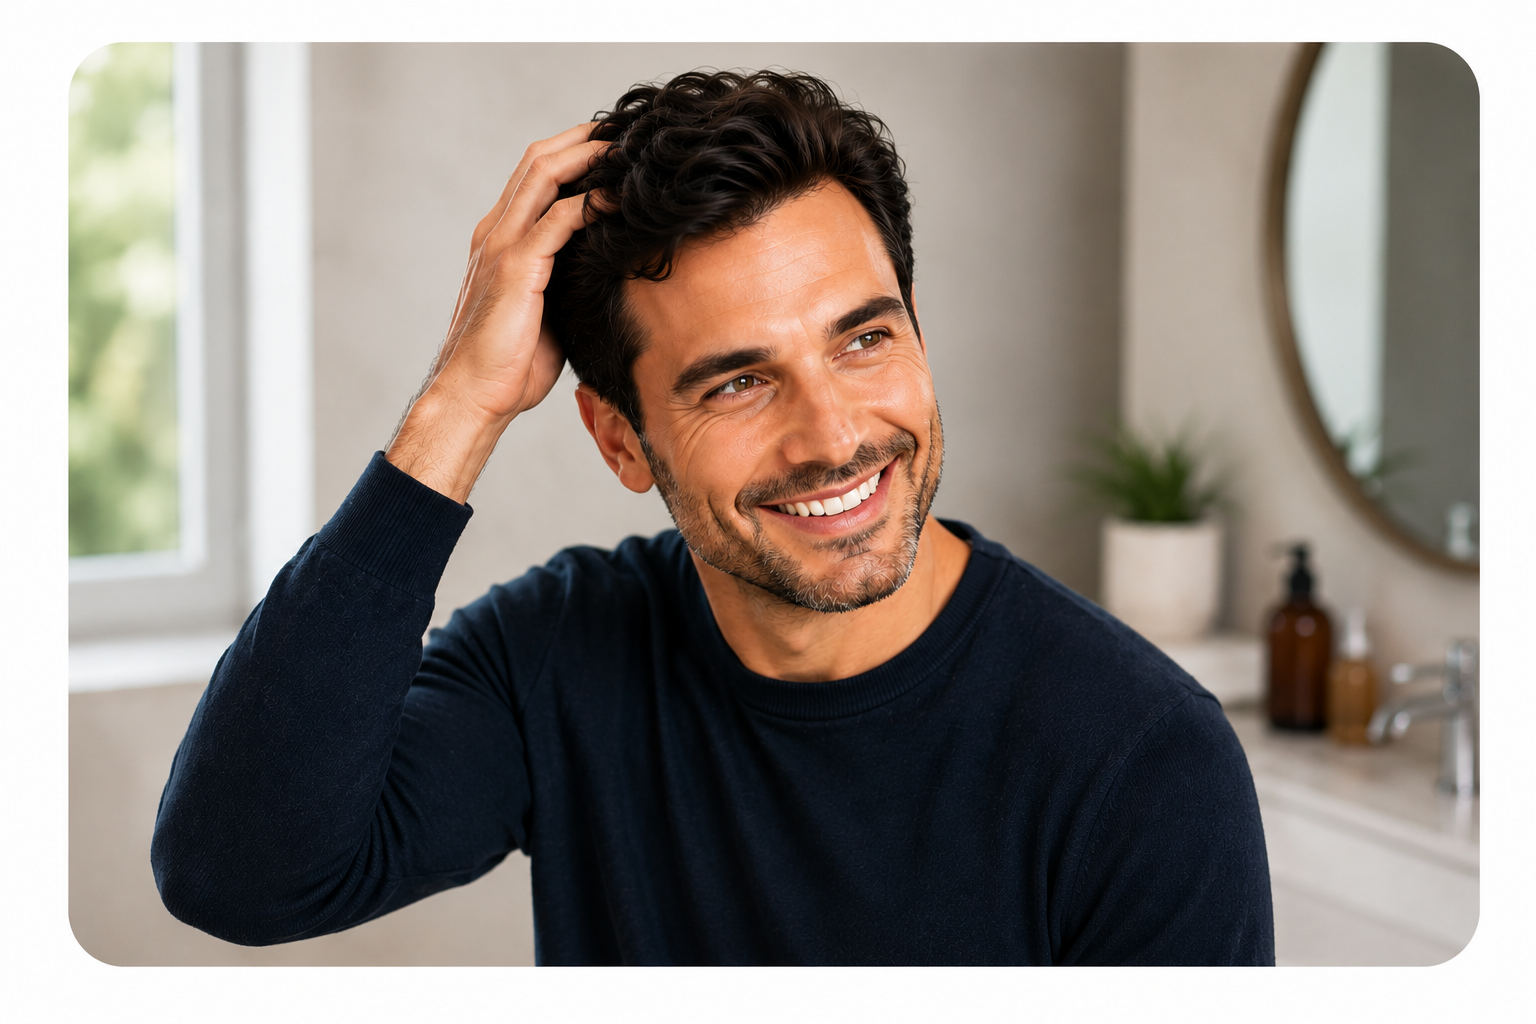
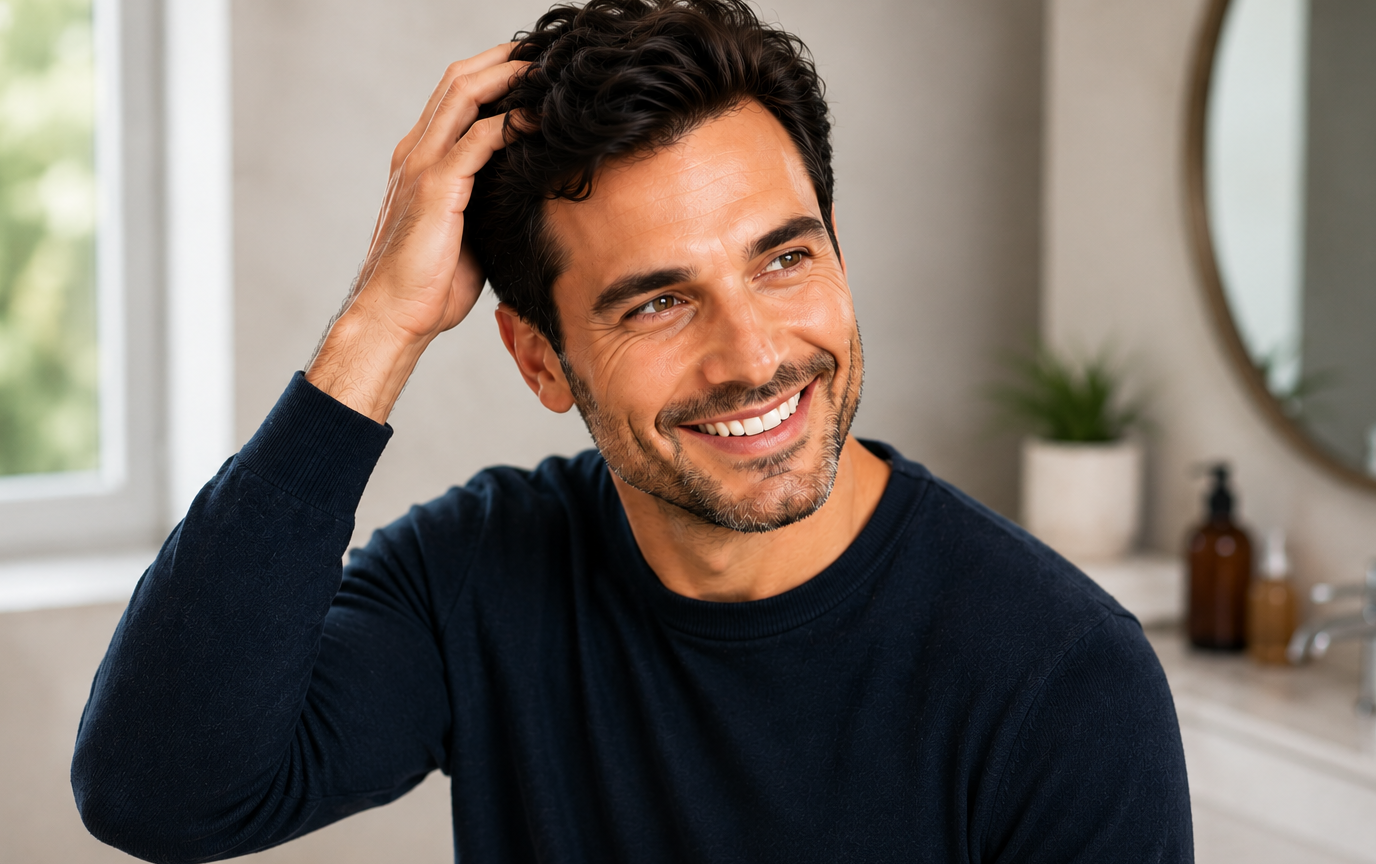
fix: clean up Hair Restoration products header and CTA image
- Remove the "Personalized Care, Real Results" pill eyebrow and the
  "Explore provider-guided treatment plans" lead from the products head
- Widen the products header column so the title fits on one line
- Bump product-card description to the shared card-body text size
- Crop the baked-in white matte border off cta-man.png so the CTA
  photo bleeds to the screen edge like the other category CTAs

diff --git a/wellpeps-site/src/data/hair.ts b/wellpeps-site/src/data/hair.ts
@@ -54,9 +54,7 @@ export const hairWorks: HairWorkStep[] = [
 ];
 
 export const hairProductsIntro = {
-  eyebrow: 'Personalized Care, Real Results',
   title: 'Personalized Hair Restoration Plans',
-  lead: 'Explore provider-guided treatment plans designed to meet your unique hair restoration goals.',
   // Approved copy from "Headlines and text before Product Cards.docx"
   intro:
     'Every treatment begins with a free online health assessment. Our licensed healthcare providers will review your health history, symptoms, and wellness goals before recommending a personalized hair restoration plan—if clinically appropriate.',